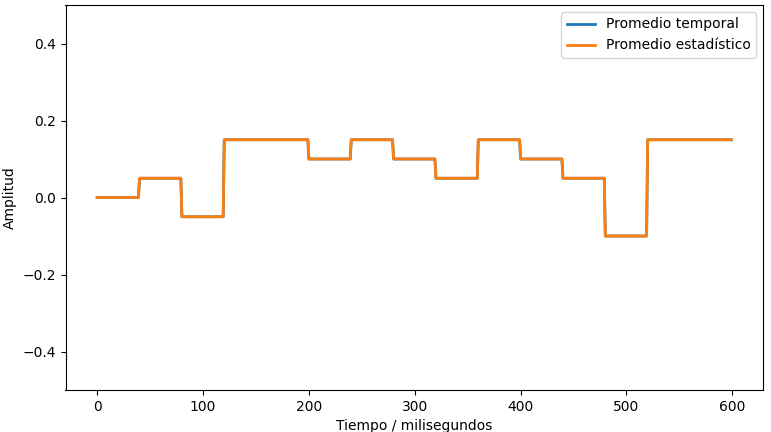
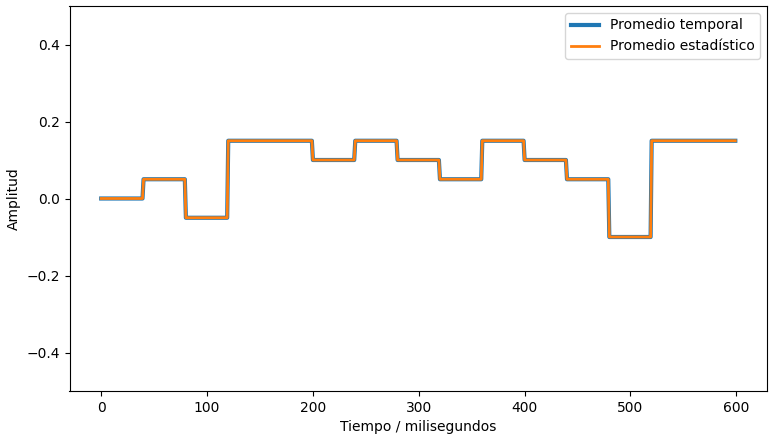
Mejoras al plot de promedios

Changed region(s): [[0.0, 0.0, 0.9961, 1.0], [0.4047, 0.3009, 0.965, 0.5718], [0.1245, 0.3009, 0.4047, 0.5116]]

diff --git a/P4.py b/P4.py
@@ -337,7 +337,7 @@ for i in range(0, 600, Np):
     E[i: i+Np] = np.mean(senal_Tx[i: i+Np])
 
 Fig4 = plt.figure(figsize=(9, 5))
-plt.plot(A, lw=2, label='Promedio temporal')
+plt.plot(A, lw=3, label='Promedio temporal')
 plt.plot(E, lw=2, label='Promedio estadístico')
 plt.ylabel('Amplitud')
 plt.xlabel('Tiempo / milisegundos')
